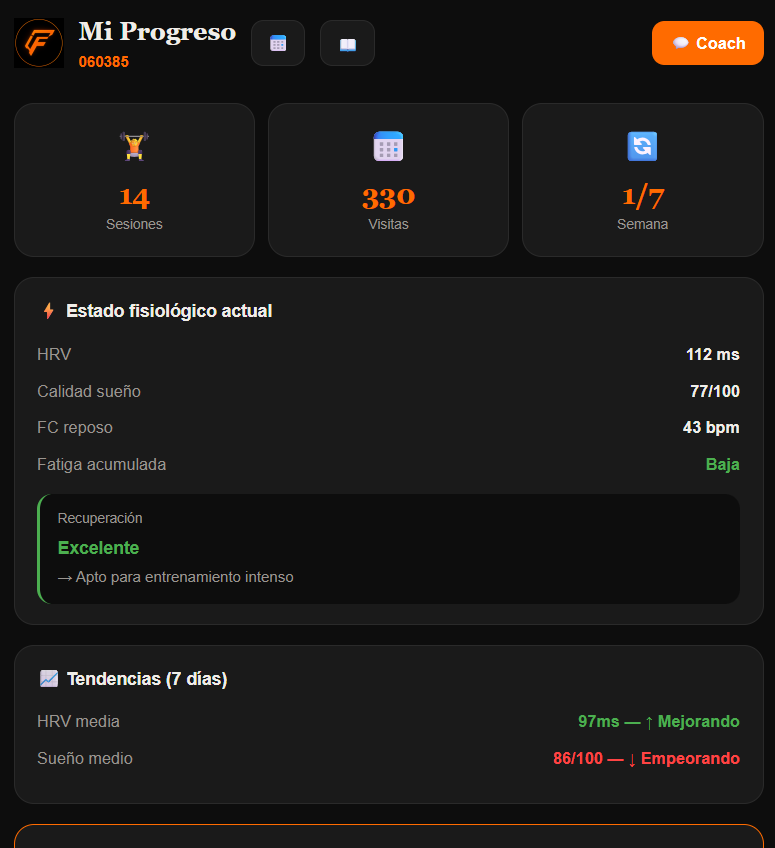
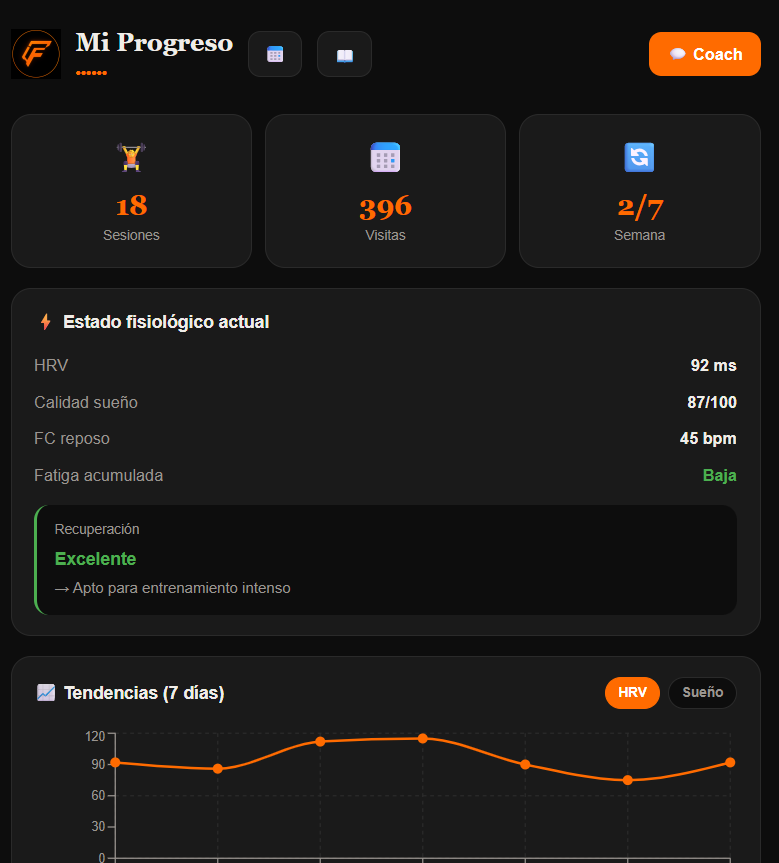
añadir seccion Como funciona Forge con 4 bloques animados

diff --git a/components/ComoFunciona.tsx b/components/ComoFunciona.tsx
@@ -1,0 +1,159 @@
+"use client";
+
+import { motion } from "framer-motion";
+
+interface BloqueProps {
+  numero: string;
+  titulo: string;
+  texto: string;
+  checklist: string[];
+  frase: string;
+  imagen: string;
+  invertido?: boolean;
+}
+
+function Bloque({ numero, titulo, texto, checklist, frase, imagen, invertido }: BloqueProps) {
+  return (
+    <motion.div
+      initial={{ opacity: 0, y: 30 }}
+      whileInView={{ opacity: 1, y: 0 }}
+      viewport={{ once: true, margin: "-100px" }}
+      transition={{ duration: 0.6 }}
+      className={`flex flex-col items-center gap-12 md:flex-row ${invertido ? "md:flex-row-reverse" : ""}`}
+    >
+      <div className="flex-1">
+        <motion.img
+          src={imagen}
+          alt={titulo}
+          whileHover={{ y: -8 }}
+          transition={{ duration: 0.3 }}
+          className="mx-auto w-full max-w-[280px] rounded-3xl border border-white/10 shadow-[0_40px_120px_rgba(0,0,0,.5)]"
+        />
+      </div>
+      <div className="flex-1">
+        <span className="inline-flex h-8 w-8 items-center justify-center rounded-full border border-orange-500/30 bg-orange-500/10 text-sm font-bold text-orange-400">
+          {numero}
+        </span>
+        <h3 className="mt-4 text-3xl font-bold text-white">{titulo}</h3>
+        <p className="mt-4 text-lg leading-8 text-zinc-400">{texto}</p>
+        <div className="mt-6 space-y-2">
+          {checklist.map((item, i) => (
+            <motion.div
+              key={item}
+              initial={{ opacity: 0, x: -10 }}
+              whileInView={{ opacity: 1, x: 0 }}
+              viewport={{ once: true }}
+              transition={{ delay: i * 0.1, duration: 0.4 }}
+              className="flex items-center gap-2 text-zinc-300"
+            >
+              <span className="text-orange-500">✓</span>
+              {item}
+            </motion.div>
+          ))}
+        </div>
+        <p className="mt-6 text-sm font-semibold uppercase tracking-wide text-orange-400">{frase}</p>
+      </div>
+    </motion.div>
+  );
+}
+
+function Flecha() {
+  return (
+    <motion.div
+      initial={{ opacity: 0.2 }}
+      whileInView={{ opacity: 1 }}
+      viewport={{ once: true }}
+      transition={{ duration: 0.5 }}
+      className="flex justify-center py-8 text-3xl text-orange-500"
+    >
+      ↓
+    </motion.div>
+  );
+}
+
+export default function ComoFunciona() {
+  return (
+    <section id="como-funciona" className="relative bg-zinc-950 py-32">
+      <div className="mx-auto max-w-7xl px-6">
+
+        <div className="mx-auto max-w-3xl text-center">
+          <span className="inline-flex rounded-full border border-orange-500/30 bg-orange-500/10 px-4 py-2 text-sm text-orange-300">
+            Cómo funciona
+          </span>
+          <h2 className="mt-8 text-4xl font-bold text-white md:text-5xl">
+            Un entrenador no toma decisiones al azar.
+            <br />
+            Forge tampoco.
+          </h2>
+          <p className="mt-8 text-xl leading-9 text-zinc-400">
+            Antes de recomendar un entrenamiento, Forge entiende quién eres, planifica con criterio, aprende de cada sesión y utiliza ese conocimiento para seguir mejorando.
+          </p>
+        </div>
+
+        <div className="mt-24 space-y-4">
+          <Bloque
+            numero="01"
+            titulo="Forge empieza por entender al atleta."
+            texto="No genera una rutina. Primero construye un perfil vivo con todo aquello que influye en tus entrenamientos."
+            checklist={["Objetivos deportivos", "Nivel actual", "Fortalezas", "Áreas de desarrollo", "Lesiones", "Material disponible", "Disponibilidad semanal"]}
+            frase="Nunca empieza desde cero."
+            imagen="/landing/atleta.png"
+          />
+
+          <Flecha />
+
+          <Bloque
+            numero="02"
+            titulo="Después decide qué debes entrenar."
+            texto="Cada sesión forma parte de un bloque. Cada bloque tiene un objetivo. Cada cambio tiene una explicación."
+            checklist={["Planificación científica", "Adaptación diaria", "Cambios automáticos", "Explicación del entrenador", "Periodización inteligente"]}
+            frase="No improvisa. Planifica."
+            imagen="/landing/plan.png"
+            invertido
+          />
+
+          <Flecha />
+
+          <Bloque
+            numero="03"
+            titulo="Cada entrenamiento añade conocimiento."
+            texto="Tus entrenamientos no desaparecen en un historial. Se convierten en información útil para tomar mejores decisiones."
+            checklist={["Sueño", "HRV", "Sensaciones", "Cargas", "PR", "Eventos", "Adherencia"]}
+            frase="Todo queda conectado."
+            imagen="/landing/historia.png"
+          />
+
+          <Flecha />
+
+          <Bloque
+            numero="04"
+            titulo="Forge evalúa el resultado de sus decisiones."
+            texto="Cuando termina un bloque, Forge analiza qué funcionó, qué no, y utiliza ese conocimiento para construir el siguiente."
+            checklist={["Rendimiento", "Fatiga", "Recuperación", "Bloques", "Estrategias", "Resultados", "Aprendizaje continuo"]}
+            frase="Cada bloque hace mejor al atleta... y también al entrenador."
+            imagen="/landing/progreso.png"
+            invertido
+          />
+        </div>
+
+        <motion.div
+          initial={{ opacity: 0 }}
+          whileInView={{ opacity: 1 }}
+          viewport={{ once: true }}
+          transition={{ duration: 0.8 }}
+          className="mt-32 text-center"
+        >
+          <p className="mx-auto max-w-2xl text-2xl font-semibold leading-relaxed text-white md:text-3xl">
+            Cada entrenamiento deja de ser un dato.
+            <br />
+            Se convierte en una mejor decisión para el siguiente.
+          </p>
+          <a href="/app" className="mt-10 inline-block rounded-full bg-orange-500 px-8 py-4 font-semibold text-white transition hover:scale-105 hover:bg-orange-400">
+            Empieza gratis
+          </a>
+        </motion.div>
+
+      </div>
+    </section>
+  );
+}

diff --git a/app/v2/page.tsx b/app/v2/page.tsx
@@ -1,9 +1,11 @@
 import Hero from "@/components/Hero";
+import ComoFunciona from "@/components/ComoFunciona";
 
 export default function LandingV2() {
   return (
     <main>
       <Hero />
+      <ComoFunciona />
     </main>
   );
 }